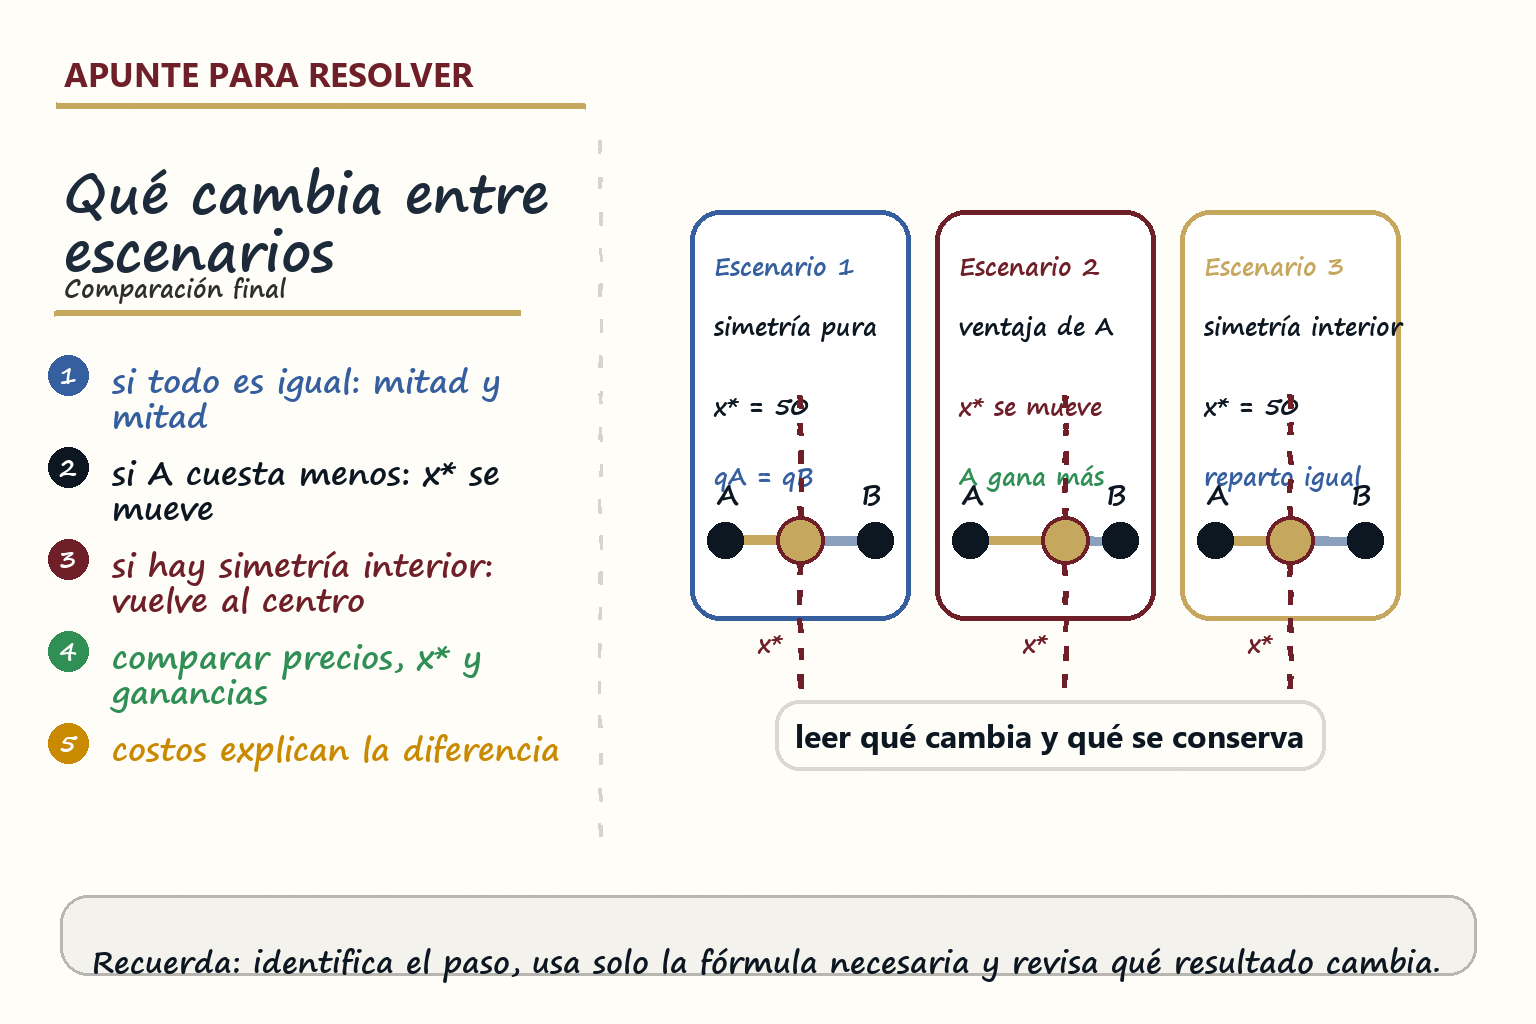
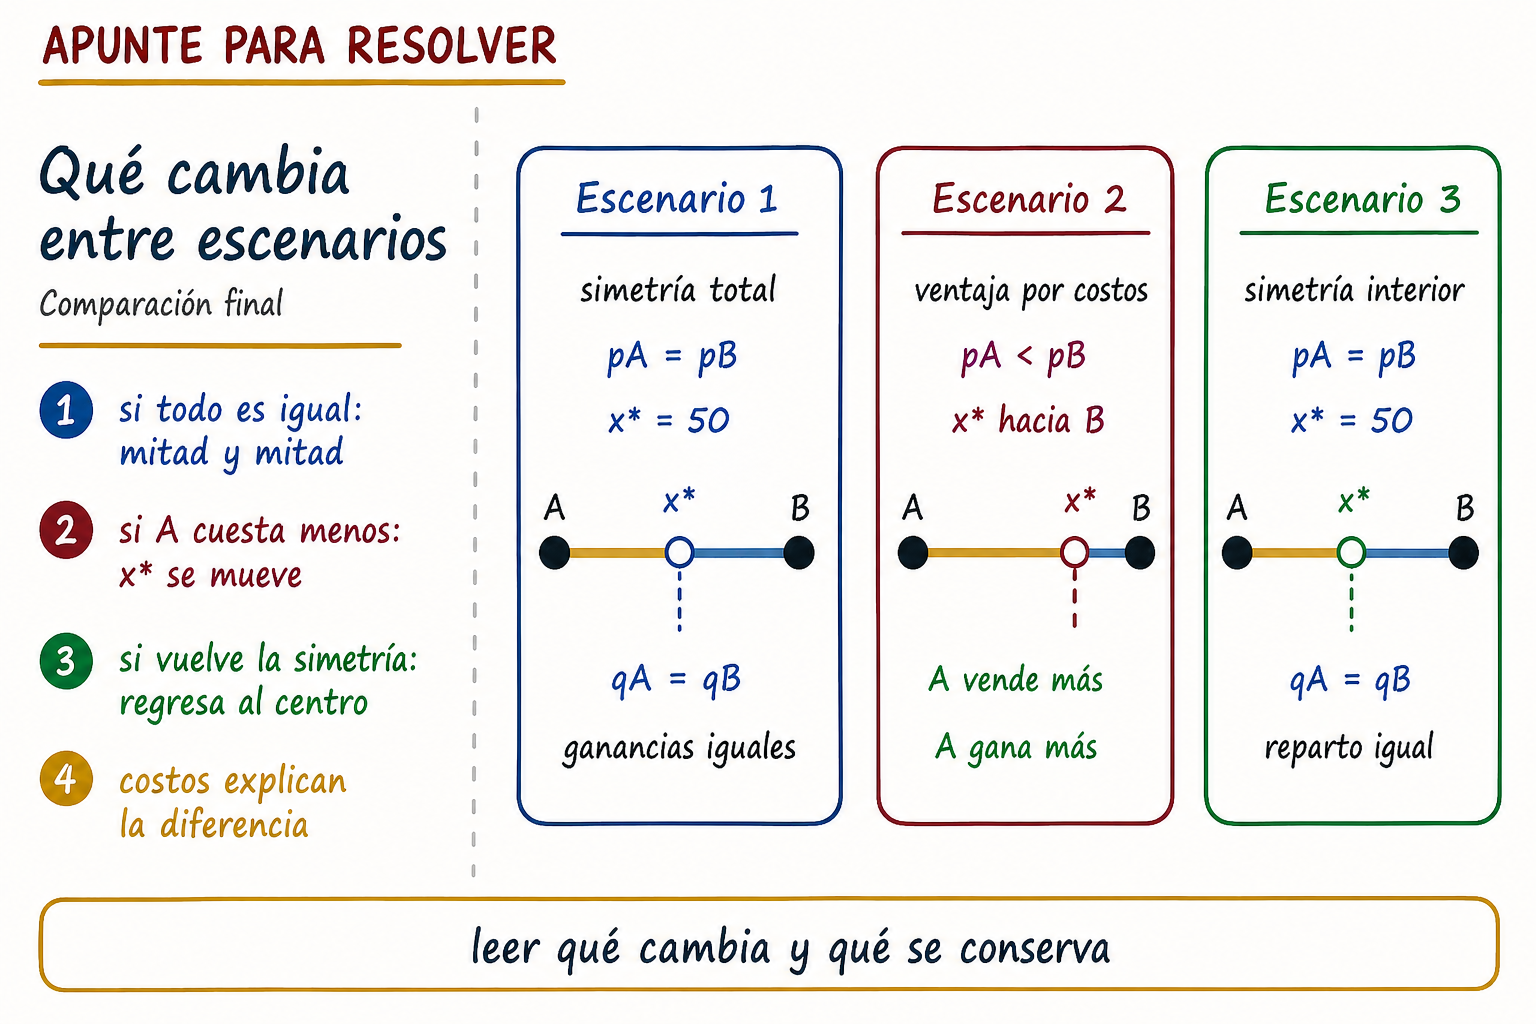
Refina imagen de comparación final

diff --git a/src/content/image-manifest.ts b/src/content/image-manifest.ts
@@ -190,7 +190,7 @@ Resumir el escenario 3 con ubicaciones interiores simétricas. Dibujar a=20, b=8
     sectionId: "resumen",
     placement: "after-section",
     prompt: `${whiteboardVisualDirection}
-Comparar visualmente los tres escenarios. Un bloque para simetría, otro para ventaja por costos y otro para simetría interior. Resaltar solo las diferencias principales.`,
+Comparar visualmente los tres escenarios con una composición mucho más limpia y alineada. Usar una columna izquierda con cuatro ideas clave del cierre y, a la derecha, tres tarjetas verticales del mismo tamaño: una para simetría total, otra para ventaja por costos y otra para simetría interior. Cada tarjeta debe resumir pocas etiquetas, un mini diagrama de calle con A, B y x*, y una lectura breve de qué cambia o qué se conserva. Priorizar rejilla clara, espaciado uniforme y comparación rápida entre columnas.`,
     alt: "Síntesis visual comparativa de los tres escenarios lineales y sus diferencias principales.",
     caption: "El cierre compara qué cambia por costos y qué se mantiene por simetría.",
     quality: "medium",
@@ -201,9 +201,9 @@ Comparar visualmente los tres escenarios. Un bloque para simetría, otro para ve
     sketchLines: [
       "1. si todo es igual: mitad y mitad",
       "2. si A cuesta menos: x* se mueve",
-      "3. si se conserva simetría: vuelve al centro",
-      "comparar precios, x* y ganancias",
-      "resultado: costos explican la diferencia",
+      "3. si vuelve la simetría: regresa al centro",
+      "4. costos explican la diferencia",
+      "leer qué cambia y qué se conserva",
     ],
   },
   {
